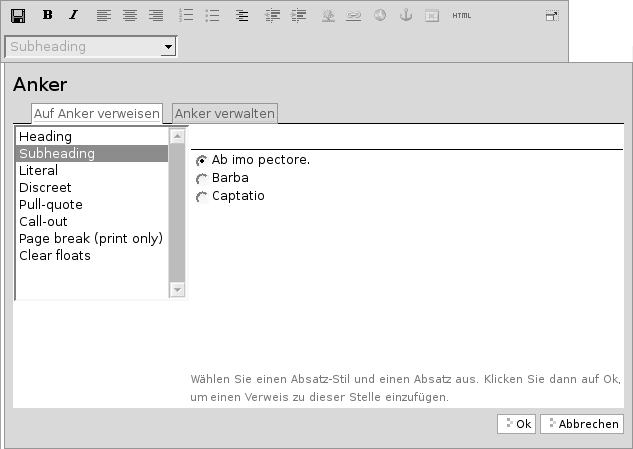
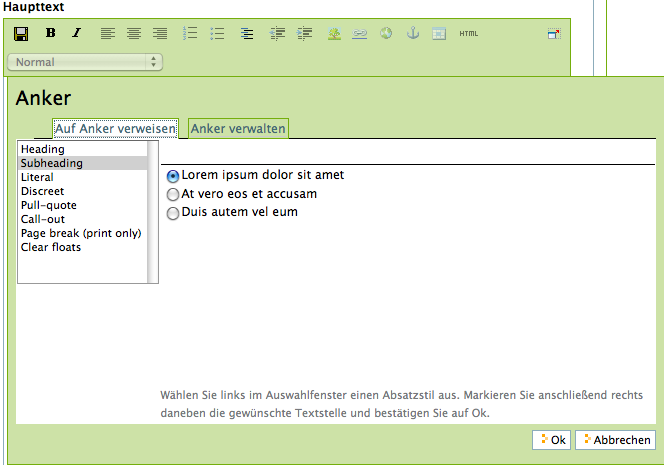
Kupu-Kapitel wieder eingefügt und farbige Bilder einfügen

diff --git a/glossar.rst b/glossar.rst
@@ -282,3 +282,12 @@ Glossar
       Der Unified Installer ist ein Installationsprogramm, mit dem
       die Python-, Zope- und Plone-Quellen auf unix-basierten
       Betriebssystemen installiert werden. 
+
+   HTTP
+      n.n.
+
+   HTTPS
+      n.n.
+
+   FTP
+      n.n.

diff --git a/gui/index.rst b/gui/index.rst
@@ -17,5 +17,5 @@ Informationen und Bedienelemente, die Plone Ihnen zur Verfügung stellt.
    portlets.rst
    site-aktionen.rst
    tinymce.rst
+   kupu.rst
 
-.. todo:: Kapitel TinyMCE schreiben
